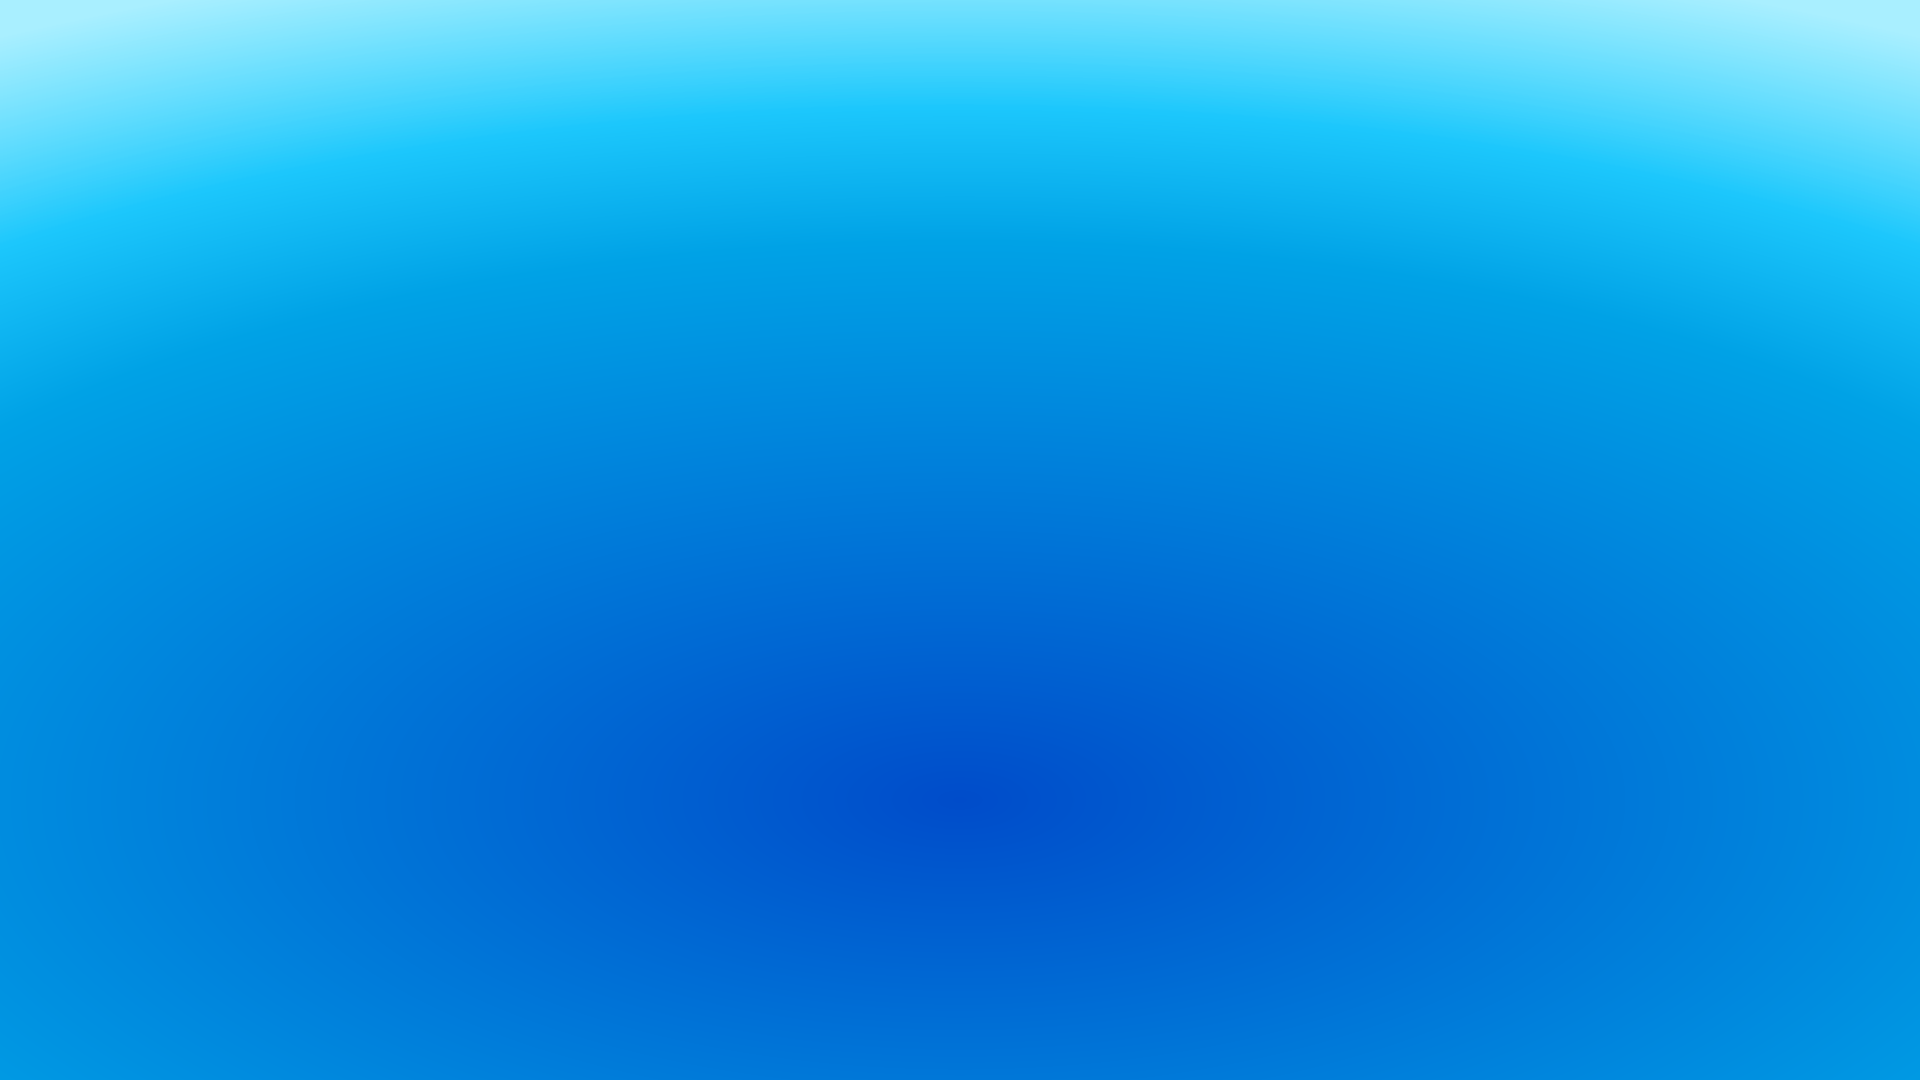
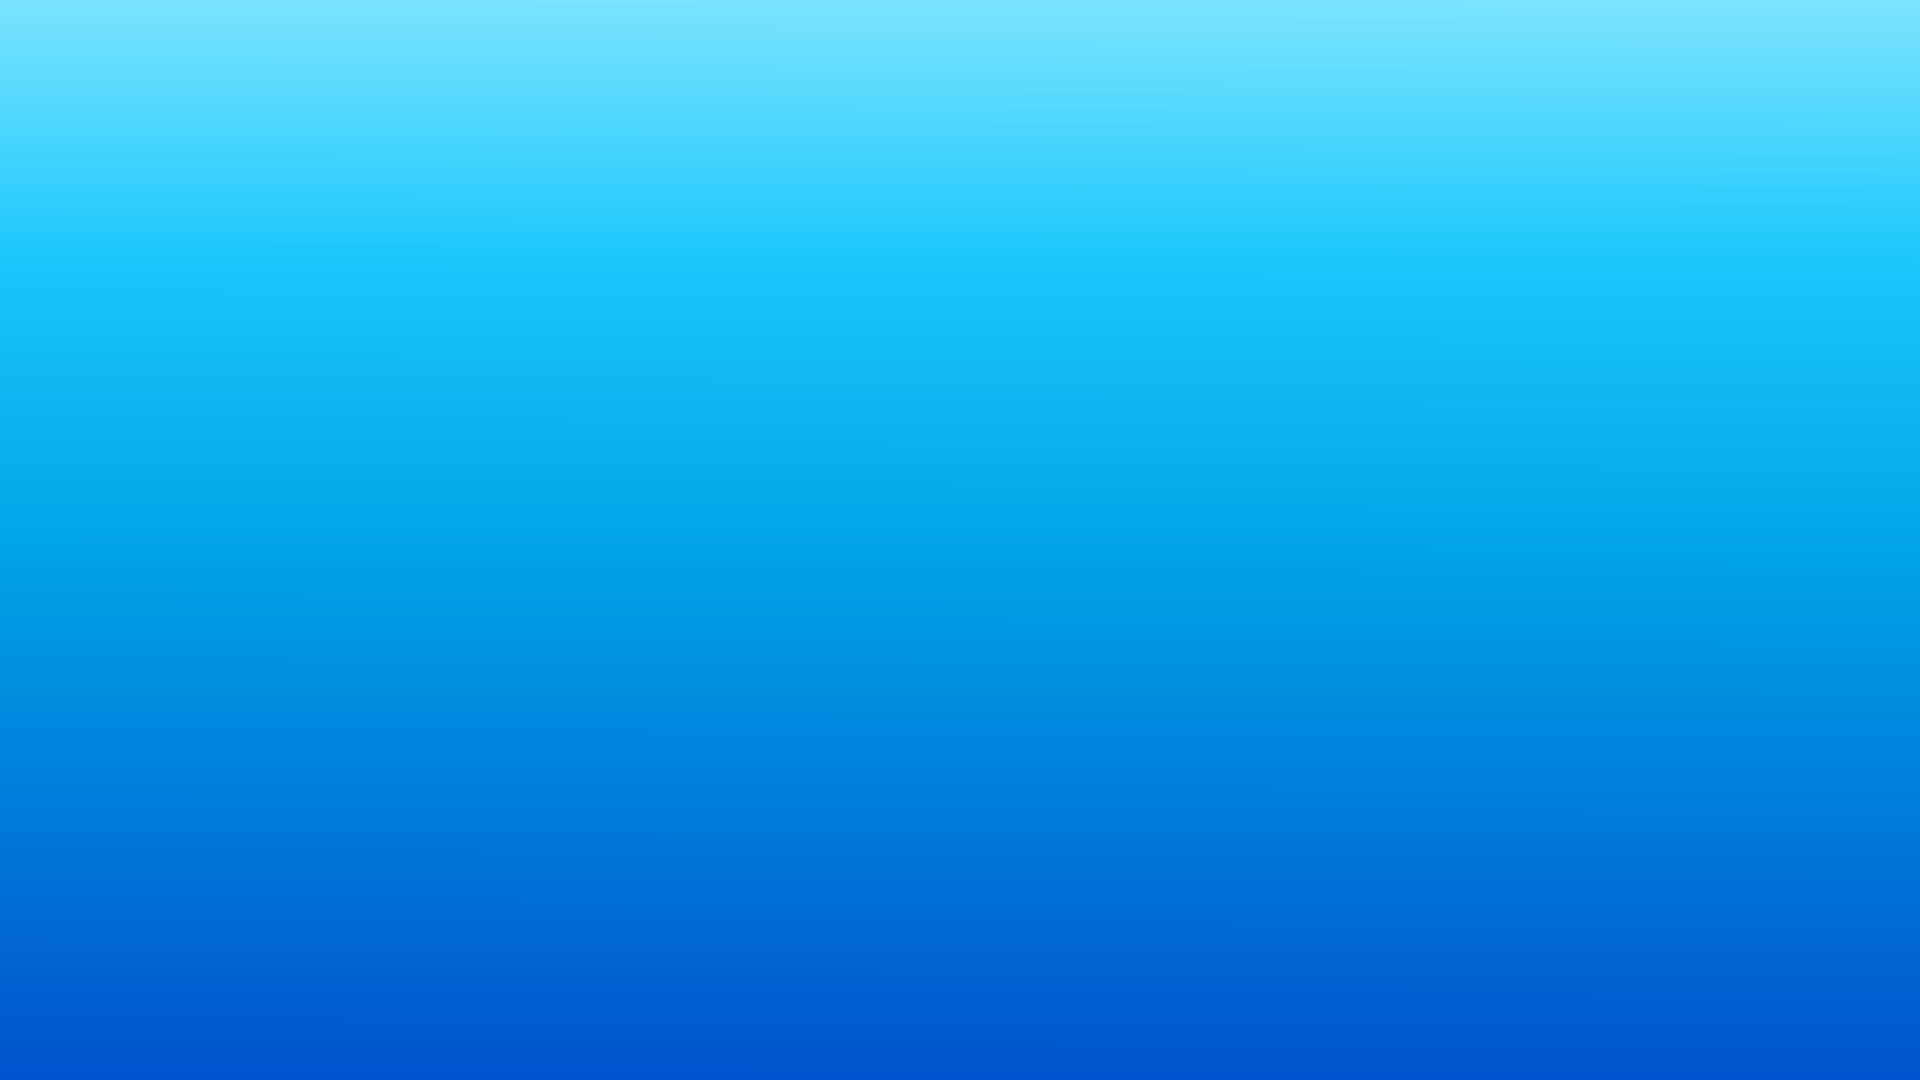
faq bg

diff --git a/index.html b/index.html
@@ -118,7 +118,7 @@
         </div>
     </div> -->
 
-    <div class="faq" id="faq" style="background: url(images/bluebg.png);">
+    <div class="faq" id="faq" style="background: url(images/bluebg2.png);">
         <div class="container">
             <h1 class="title">FAQ</h1>
             <div class="row">
